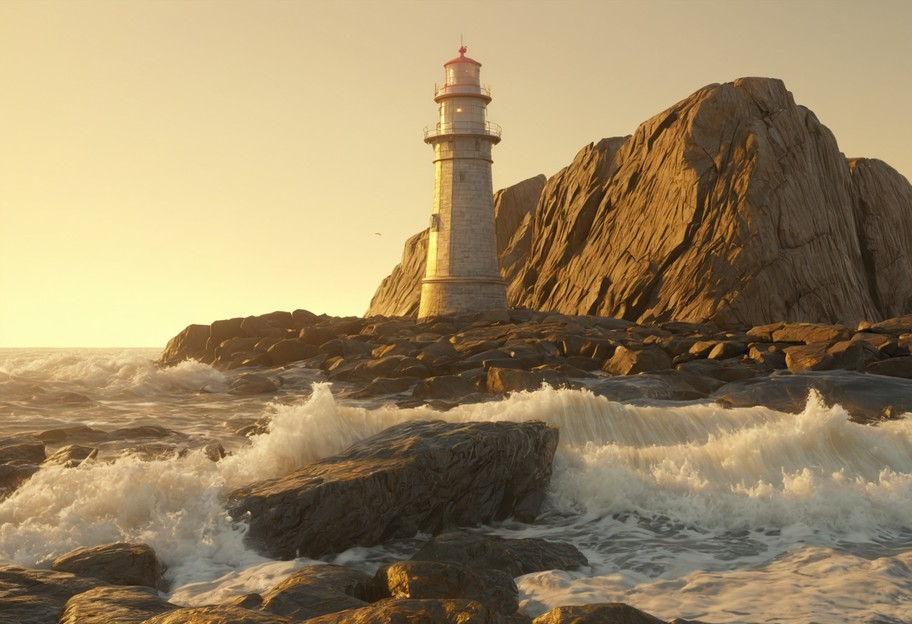
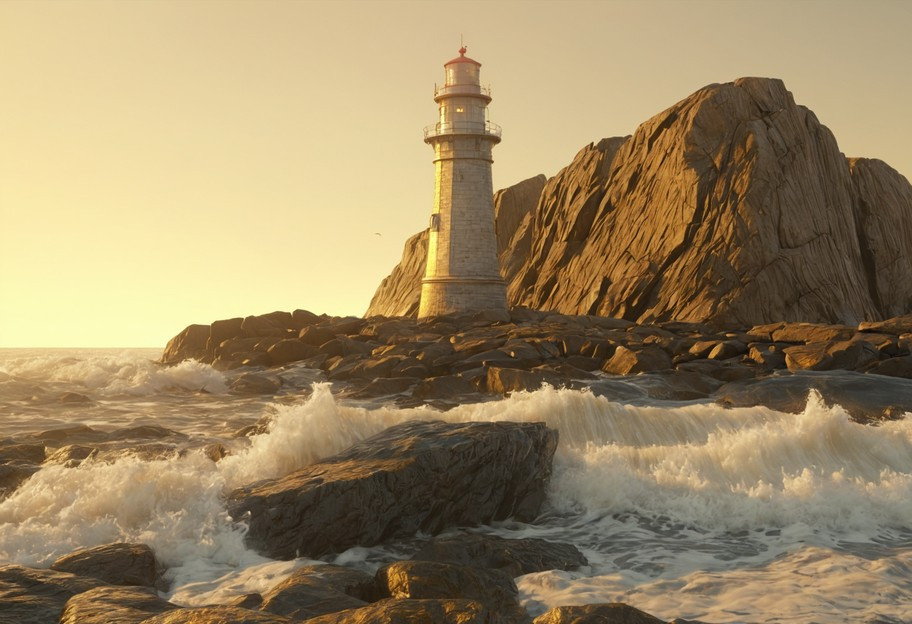
Replace the lighthouse example pictures with renders checked against ComfyUI
The committed lighthouse.png was made with another copy of the checkpoint or another card and
differed from both engines today (mean 0.537, 38 percent of values). rustyui and ComfyUI 0.39.0
now render the embedded graph to identical pixels on the RTX 4090, and so does the hires graph,
so the example pictures are rustyui's renders from that run. The PNG keeps the same prompt,
workflow and generator text chunks as before; the README states the card and ComfyUI version.

diff --git a/README.md b/README.md
@@ -108,10 +108,13 @@ a time.
 <tr>
 <td><a href="docs/examples/lighthouse.png"><code>lighthouse.png</code></a>: an SDXL checkpoint
 (Juggernaut XL v9), 1216x832, dpmpp_2m karras, 30 steps. The PNG holds its graph: drop it on
-either editor, or on ComfyUI.</td>
+either editor, or on ComfyUI. It is rustyui's render on an RTX 4090; ComfyUI 0.39.0 (default
+flags) rendered the same graph with the same checkpoint file to identical pixels, all 1,011,712
+of them.</td>
 <td><a href="docs/examples/lighthouse-hires.json"><code>lighthouse-hires.json</code></a>: the same
 with a hires fix (Remacri x4, lanczos down to 1824x1248, a second pass at denoise 0.4), as an API
-graph.</td>
+graph. The picture is rustyui's render at half size (912x624); at 1824x1248 it too was identical
+to ComfyUI's, all 6,829,056 values.</td>
 </tr>
 </table>
 
@@ -466,7 +469,9 @@ diffusers' names), and with euler_ancestral or euler on the normal schedule.
 ComfyUI as its server runs: torch 2.11 for CUDA 13.0, cuDNN 9.19, DynamicVRAM model patching and
 comfy_kitchen's CUDA kernels. Some results depend on the hardware, as they do in PyTorch (the CUDA
 noise layout on the GPU's SM count, cuDNN's engine choice on the GPU, x264's slicing on the CPU
-count), so exactness holds against ComfyUI on the same machine.
+count), so exactness holds against ComfyUI on the same machine. The example pictures above were
+checked on an RTX 4090 against ComfyUI 0.39.0 (torch 2.11.0+cu130, cuDNN 9.19, comfy_kitchen
+0.2.37, comfy-aimdo 0.5.6) started with default flags, so DynamicVRAM was on.
 
 | Piece | How rustyui runs it |
 |---|---|
